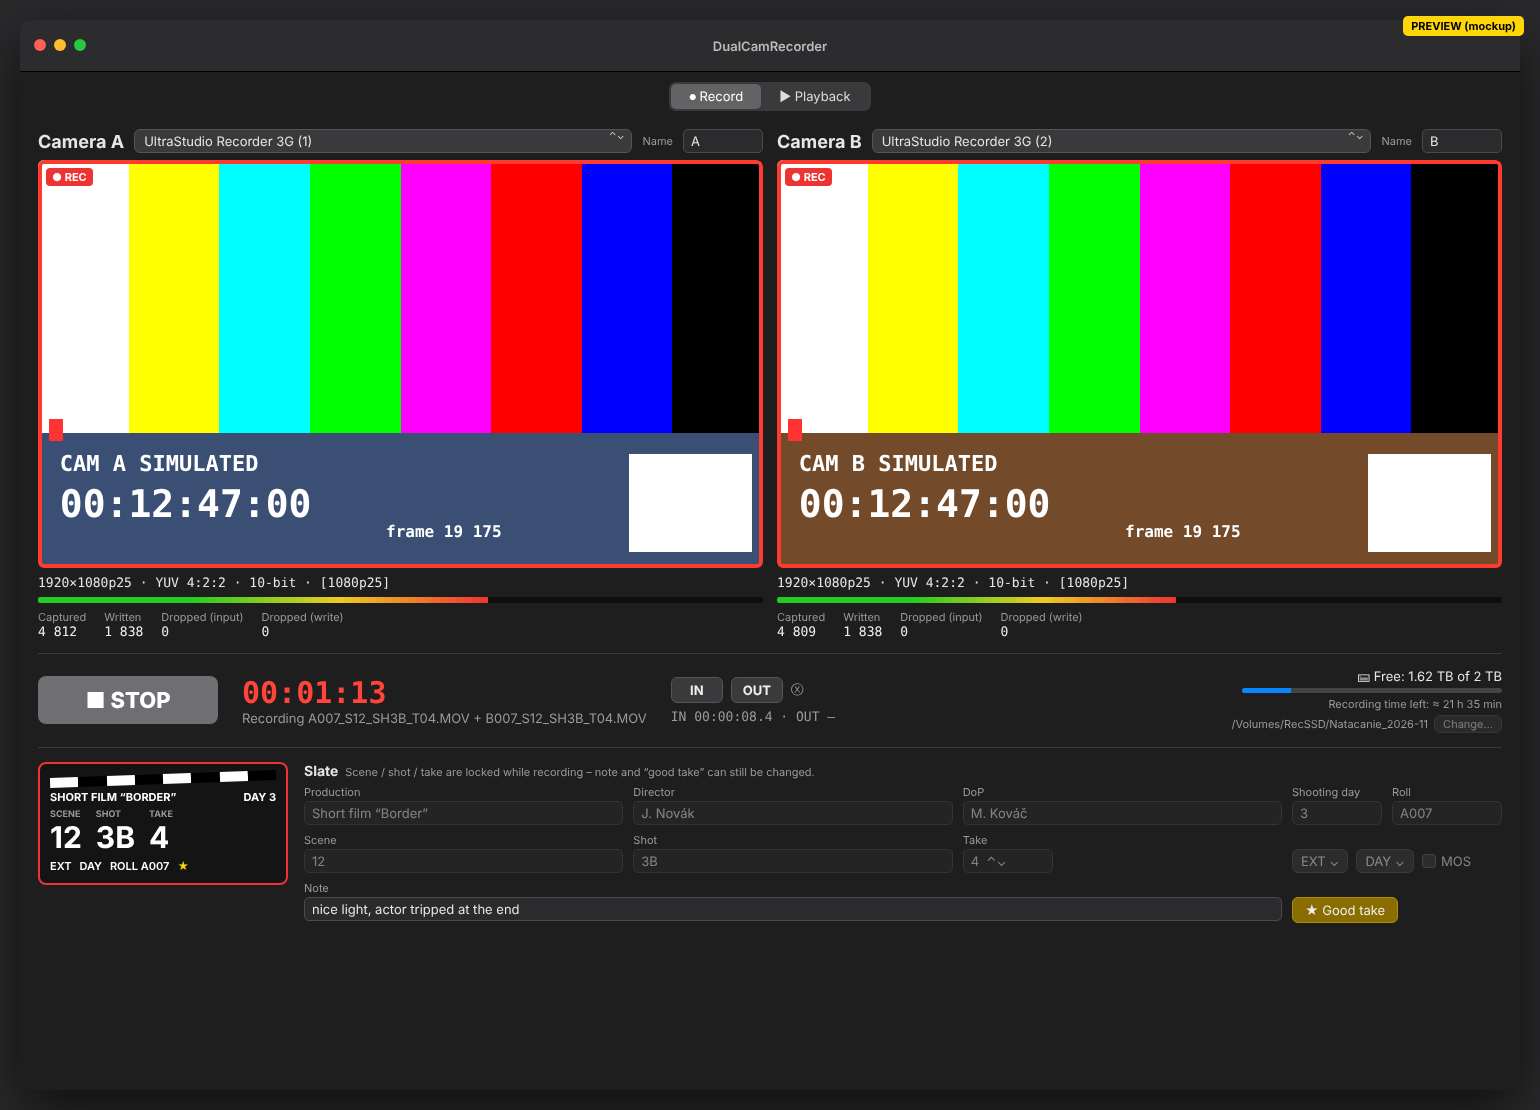
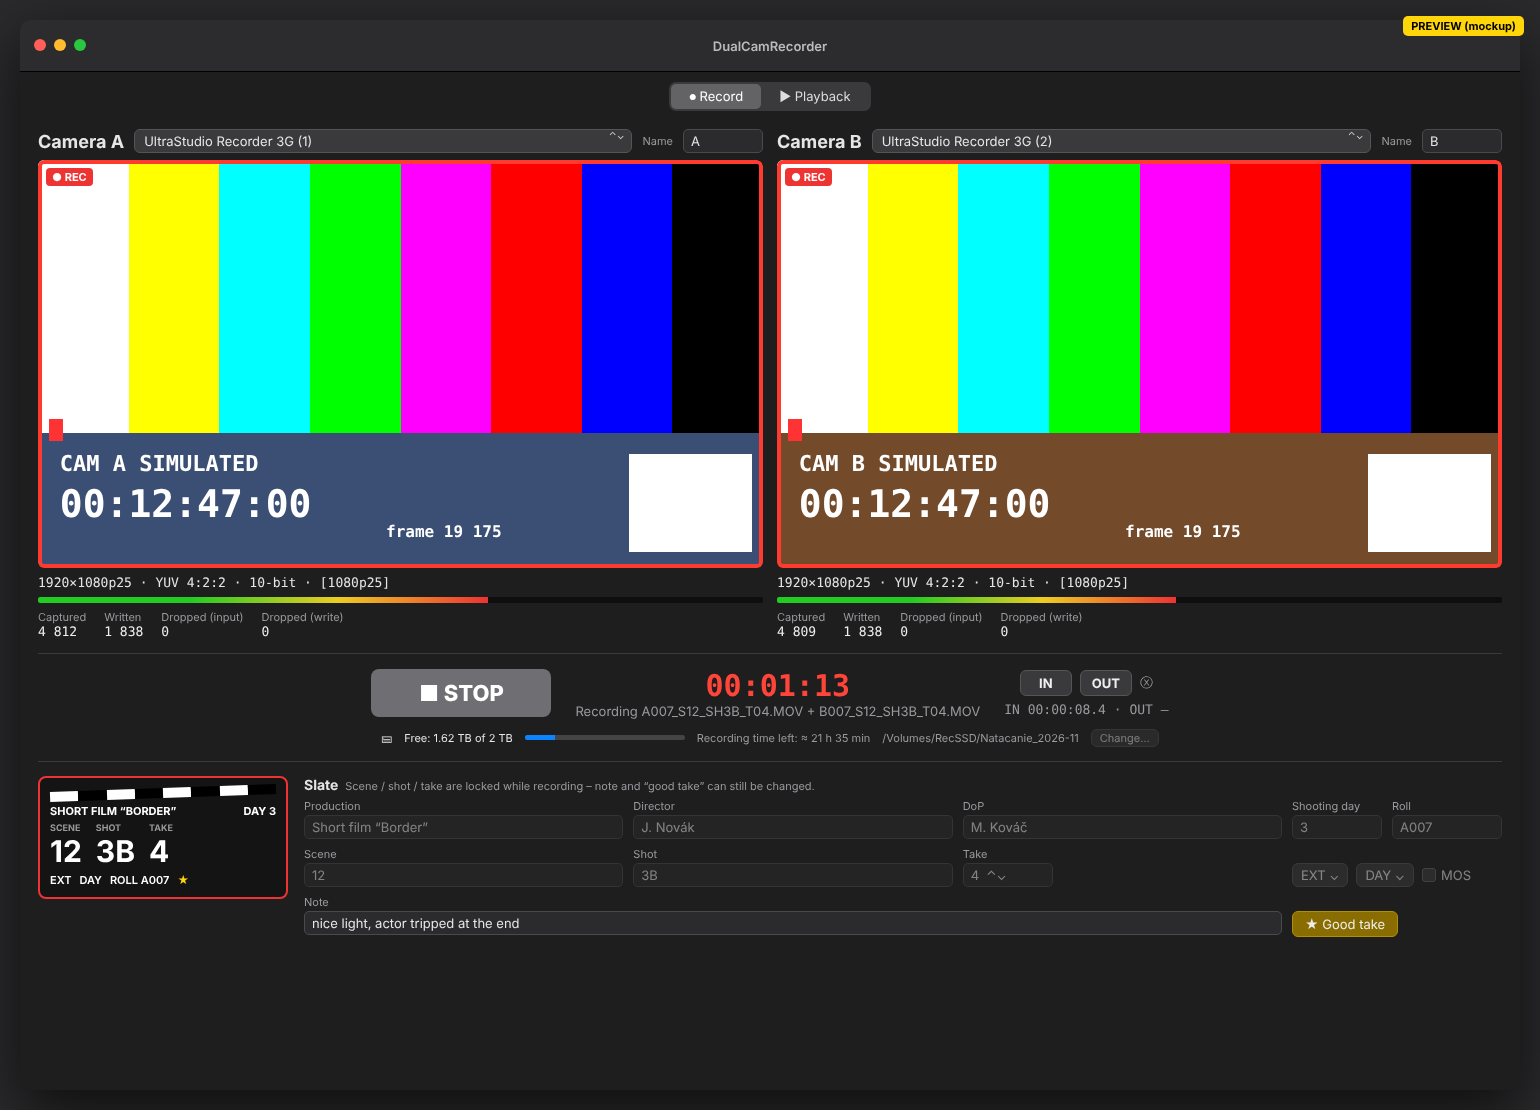
Center all control rows in Record and Playback
Record: REC/STOP, timer and IN/OUT are centered with the disk/folder
line centered below. Playback: clip header, IN/OUT buttons (times on a
second line), slate summary with its button (description below) and
the transport row are centered.

Claude-Session: https://claude.ai/code/session_01SjxyfTkJQH7RKsrkA8EJQA

diff --git a/DualCamRecorder/Views/PlaybackView.swift b/DualCamRecorder/Views/PlaybackView.swift
@@ -145,8 +145,8 @@ struct PlaybackView: View {
                 Text(library.takes.isEmpty ? "No clips in this folder yet." : "No clip selected.")
                     .foregroundStyle(.secondary)
             }
-            Spacer()
         }
+        .frame(maxWidth: .infinity)
     }
 
     private var takeList: some View {
@@ -243,19 +243,24 @@ struct PlaybackView: View {
 
     /// Slate summary of the loaded take + edit button.
     private var slateInfo: some View {
-        HStack(alignment: .firstTextBaseline, spacing: 10) {
-            Image(systemName: "film.stack")
+        VStack(spacing: 4) {
+            HStack(alignment: .firstTextBaseline, spacing: 10) {
+                Image(systemName: "film.stack")
+                if let slate = player.slate {
+                    Text(slate.shortLabel).font(.headline).fixedSize()
+                } else {
+                    Text("This clip has no slate data.").foregroundStyle(.secondary)
+                }
+                Button("Slate…") { editingSlate = true }
+                    .disabled(player.take == nil)
+            }
             if let slate = player.slate {
-                Text(slate.shortLabel).font(.headline).fixedSize()
                 Text(slate.longDescription.replacingOccurrences(of: "\n", with: "  ·  "))
                     .font(.caption).foregroundStyle(.secondary).lineLimit(2)
-            } else {
-                Text("This clip has no slate data.").foregroundStyle(.secondary)
+                    .multilineTextAlignment(.center)
             }
-            Spacer()
-            Button("Slate…") { editingSlate = true }
-                .disabled(player.take == nil)
         }
+        .frame(maxWidth: .infinity)
         .sheet(isPresented: $editingSlate) {
             SlateEditSheet(slate: player.slate ?? SlateInfo(),
                            takeName: player.take?.name ?? "",
@@ -264,28 +269,32 @@ struct PlaybackView: View {
     }
 
     private var markControls: some View {
-        HStack(spacing: 10) {
-            Button("Set IN") { player.setIn() }
-                .keyboardShortcut("i", modifiers: [])
-                .help("IN at the current frame (I)")
-            Button("Set OUT") { player.setOut() }
-                .keyboardShortcut("o", modifiers: [])
-                .help("OUT at the current frame (O)")
-            Button { player.goToIn() } label: { Label("Go to IN", systemImage: "arrow.left.to.line") }
-                .disabled(player.marks.inPoint == nil)
-            Button { player.goToOut() } label: { Label("Go to OUT", systemImage: "arrow.right.to.line") }
-                .disabled(player.marks.outPoint == nil)
-            Button("Clear") { player.clearMarks() }
-                .disabled(player.marks.isEmpty)
-            Toggle("Play IN–OUT only", isOn: $player.limitToRange)
-            Spacer()
-            Text("IN \(player.marks.inPoint.map { player.timecode($0) } ?? "—")  ·  OUT \(player.marks.outPoint.map { player.timecode($0) } ?? "—")")
-                .font(.system(.callout, design: .monospaced))
-                .foregroundStyle(.secondary)
-            if let msg = player.marksMessage {
-                Text(msg).font(.caption).foregroundStyle(.red)
+        VStack(spacing: 4) {
+            HStack(spacing: 10) {
+                Button("Set IN") { player.setIn() }
+                    .keyboardShortcut("i", modifiers: [])
+                    .help("IN at the current frame (I)")
+                Button("Set OUT") { player.setOut() }
+                    .keyboardShortcut("o", modifiers: [])
+                    .help("OUT at the current frame (O)")
+                Button { player.goToIn() } label: { Label("Go to IN", systemImage: "arrow.left.to.line") }
+                    .disabled(player.marks.inPoint == nil)
+                Button { player.goToOut() } label: { Label("Go to OUT", systemImage: "arrow.right.to.line") }
+                    .disabled(player.marks.outPoint == nil)
+                Button("Clear") { player.clearMarks() }
+                    .disabled(player.marks.isEmpty)
+                Toggle("Play IN–OUT only", isOn: $player.limitToRange)
+            }
+            HStack(spacing: 10) {
+                Text("IN \(player.marks.inPoint.map { player.timecode($0) } ?? "—")  ·  OUT \(player.marks.outPoint.map { player.timecode($0) } ?? "—")")
+                    .font(.system(.callout, design: .monospaced))
+                    .foregroundStyle(.secondary)
+                if let msg = player.marksMessage {
+                    Text(msg).font(.caption).foregroundStyle(.red)
+                }
             }
         }
+        .frame(maxWidth: .infinity)
         .disabled(player.take == nil)
     }
 
@@ -334,13 +343,13 @@ struct PlaybackView: View {
                 Toggle("Audio A", isOn: $player.audioA)
                 Toggle("Audio B", isOn: $player.audioB)
 
-                Spacer()
                 if let offset = player.abOffsetMs {
                     Text(String(format: "Offset B−A: %+.1f ms", offset))
                         .font(.caption.monospacedDigit())
                         .foregroundStyle(abs(offset) > 1000 * player.frameDuration.seconds ? .red : .secondary)
                 }
             }
+            .frame(maxWidth: .infinity)
             .disabled(player.take == nil)
         }
     }

diff --git a/DualCamRecorder/Views/RecordView.swift b/DualCamRecorder/Views/RecordView.swift
@@ -57,56 +57,55 @@ struct RecordView: View {
         .padding()
     }
 
+    /// All controls centered: REC / timer / IN-OUT on the first row, disk info below.
     private var transportBar: some View {
-        HStack(alignment: .center, spacing: 24) {
-            Button(action: controller.toggleRecording) {
-                HStack(spacing: 10) {
-                    Image(systemName: controller.isRecording ? "stop.fill" : "record.circle")
-                        .font(.system(size: 28))
-                    Text(recordButtonTitle)
-                        .font(.title2.weight(.bold))
+        VStack(spacing: 10) {
+            HStack(alignment: .center, spacing: 24) {
+                Button(action: controller.toggleRecording) {
+                    HStack(spacing: 10) {
+                        Image(systemName: controller.isRecording ? "stop.fill" : "record.circle")
+                            .font(.system(size: 28))
+                        Text(recordButtonTitle)
+                            .font(.title2.weight(.bold))
+                    }
+                    .frame(width: 180, height: 48)
                 }
-                .frame(width: 180, height: 48)
-            }
-            .buttonStyle(.borderedProminent)
-            .tint(controller.isRecording ? .gray : .red)
-            .keyboardShortcut("r", modifiers: [.command])
-            .disabled(isStopping)
+                .buttonStyle(.borderedProminent)
+                .tint(controller.isRecording ? .gray : .red)
+                .keyboardShortcut("r", modifiers: [.command])
+                .disabled(isStopping)
 
-            VStack(alignment: .leading, spacing: 4) {
-                Text(DisplayFormat.duration(controller.elapsed))
-                    .font(.system(size: 30, weight: .semibold, design: .monospaced))
-                    .foregroundStyle(controller.isRecording ? .red : .primary)
-                Text(takeLabel).font(.callout).foregroundStyle(.secondary)
-            }
-
-            markControls
-
-            Spacer()
-
-            VStack(alignment: .trailing, spacing: 4) {
-                HStack {
-                    Image(systemName: "internaldrive")
-                    Text("Free: \(DisplayFormat.bytes(controller.freeBytes)) of \(DisplayFormat.bytes(controller.totalBytes))")
+                VStack(alignment: .center, spacing: 4) {
+                    Text(DisplayFormat.duration(controller.elapsed))
+                        .font(.system(size: 30, weight: .semibold, design: .monospaced))
+                        .foregroundStyle(controller.isRecording ? .red : .primary)
+                    Text(takeLabel).font(.callout).foregroundStyle(.secondary)
                 }
+
+                markControls
+            }
+
+            HStack(spacing: 12) {
+                Image(systemName: "internaldrive")
+                Text("Free: \(DisplayFormat.bytes(controller.freeBytes)) of \(DisplayFormat.bytes(controller.totalBytes))")
                 if let free = controller.freeBytes, let total = controller.totalBytes, total > 0 {
                     ProgressView(value: Double(total - free), total: Double(total))
-                        .frame(width: 260)
+                        .frame(width: 160)
                         .tint(Double(free) / Double(total) < 0.1 ? .red : .accentColor)
                 }
                 Text("Recording time left: \(DisplayFormat.remaining(controller.estimatedRemaining))")
-                    .font(.caption).foregroundStyle(.secondary)
-                HStack(spacing: 6) {
-                    Text(settings.recordFolderPath)
-                        .font(.caption).foregroundStyle(.secondary)
-                        .lineLimit(1).truncationMode(.middle)
-                        .frame(maxWidth: 300, alignment: .trailing)
-                    Button("Change…") { controller.chooseRecordFolder() }
-                        .controlSize(.small)
-                        .disabled(controller.isRecording)
-                }
+                    .foregroundStyle(.secondary)
+                Text(settings.recordFolderPath)
+                    .foregroundStyle(.secondary)
+                    .lineLimit(1).truncationMode(.middle)
+                    .frame(maxWidth: 300)
+                Button("Change…") { controller.chooseRecordFolder() }
+                    .controlSize(.small)
+                    .disabled(controller.isRecording)
             }
+            .font(.caption)
         }
+        .frame(maxWidth: .infinity)
     }
 
     /// IN / OUT marks set while recording (saved with the take, used by playback).
@@ -115,7 +114,7 @@ struct RecordView: View {
             if case .recording = controller.state { return true }
             return false
         }()
-        return VStack(alignment: .leading, spacing: 6) {
+        return VStack(alignment: .center, spacing: 6) {
             HStack(spacing: 8) {
                 Button { controller.markIn() } label: {
                     Text("IN").font(.headline).frame(width: 44, height: 28)
